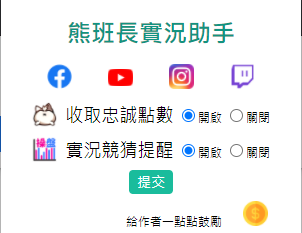
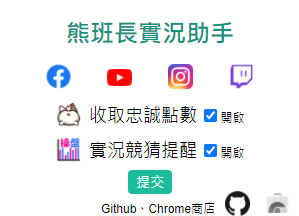
Fix Radio to CheckBox
修改Radio > CheckBox
新增 Notification.jpg
限定 never_loses

diff --git a/熊班長實況助手/popup/popup.html b/熊班長實況助手/popup/popup.html
@@ -23,23 +23,27 @@
             <div style="text-align: center; margin-top: 10px;">
                 <img src="../icons/Piyan.png" style="height: 25px; width: 25px; vertical-align: bottom;">
                 <span style="font-size: 18px; padding-left: 5px;">收取忠誠點數</span>
-                <input type="radio" name="Channel_Points" value="Click" checked="true">開啟
-                <input type="radio" name="Channel_Points" value="">關閉<br>
+                <input id="autoClick" type="checkbox" name="Channel_Points" value="Click" checked>開啟
             </div>
             <div style="text-align: center; margin-top: 10px;">
                 <img src="../icons/gambling.png" style="height: 25px; width: 25px;  vertical-align: bottom;">
                 <span style="font-size: 18px; padding-left: 5px;">實況競猜提醒</span>
-                <input type="radio" name="Quiz" value="Notification" checked="true">開啟
-                <input type="radio" name="Quiz" value="">關閉
+                <input id="cannotifi" type="checkbox" name="Quiz" value="Notification" checked>開啟
             </div>
         </div>
         <div class="row" style="margin-top: 10px; text-align: center;">
             <a id="submitButton" class="btn btn-primary btn-large btn-block" style="text-align: center;  cursor: pointer;"><span class="fui-msg"></span>提交</a>
         </div>
-        <div class="row" style="text-align:right; padding-top: 10px;">
+        <div class="row" style="text-align: center; ">
+            <span style="position: absolute; right: 85px; bottom: 0px;">Github、Chrome商店</span>
+            <a id="GitHubrbutton" class="btn btn-default" style="margin: 10px; cursor: pointer;"><img src="../icons/GitHub.png" style="width: 25px; position:absolute; right:50px;"></a>
+            <a id="Chrome_Storebutton" class="btn btn-default" style="margin: 10px; cursor: not-allowed;;"><img src="../icons/chrome_store.png" style="width: 25px; -webkit-filter: grayscale(1); position:absolute; right:10px;"></a>
+
+        </div>
+        <!-- <div class="row" style="text-align:right; padding-top: 10px;">
             <span>給作者一點點鼓勵</span>
             <a id="Sponsorbutton" class="btn btn-default" style="margin: 10px; cursor: pointer;"><img src="../icons/Sponsor.png" style="width: 25px;"></a>
-        </div>
+        </div> -->
     </div>
 </body>
 <script src="main.js"></script>

diff --git a/熊班長實況助手/popup/main.js b/熊班長實況助手/popup/main.js
@@ -1,12 +1,12 @@
 document.addEventListener('DOMContentLoaded', function(dcle) {
 
     //#region icon, url
-    var buttonName = ["FBbutton", "Youtubebutton", "Instagrambutton", "Twitchbutton", "Sponsorbutton"];
+    var buttonName = ["FBbutton", "Youtubebutton", "Instagrambutton", "Twitchbutton", "GitHubrbutton"];
     var buttonUrl = ["https://www.facebook.com/NeVeRLosEs",
         "https://www.youtube.com/channel/UCRdJzOsu4MwKmY04vfAIDHw",
         "https://www.instagram.com/nln1nl/?hl=zh-tw",
         "https://www.twitch.tv/never_loses",
-
+        "https://github.com/JinWei0811/TwitchNLHelper",
     ];
     for (var i = 0; i < buttonName.length; i++) {
         var button = document.getElementById(buttonName[i]);
@@ -20,18 +20,20 @@ document.addEventListener('DOMContentLoaded', function(dcle) {
     //#region check radio
     var dButtonEvent = document.getElementById("submitButton");
     dButtonEvent.addEventListener('click', function(e) {
-        var Total_Obj = document.getElementsByTagName("INPUT");
-        if (Total_Obj[0].checked)
-            autoClick = true;
-        else
-            autoClick = false;
+        var channelP = document.getElementsByName("Channel_Points");
+        var Notification = document.getElementsByName("Quiz");
 
-        if (Total_Obj[2].checked)
-            notification = true;
-        else
-            notification = false;
-        chrome.runtime.sendMessage({ sclick: autoClick, snotification: notification }, function(response) {});
+        channelP[0].checked ? autoClick = true : autoClick = false;
+        Notification[0].checked ? notification = true : notification = false;
+
+        chrome.runtime.sendMessage({ sclick: true, snotification: true }, function(response) {});
     });
+    //#endregion
+
+    //#region 
+    // var T_Obj = document.getElementsByTagName("INPUT");
+    // T_Obj[0].checked ? document.getElementById(autoClick).checked = true : document.getElementById(dontautoClick).checked = true;
+    // Total_Obj[2].checked ? document.getElementById(cannotifi).checked = true : document.getElementById(cantnotifi).checked = true;
     //#endregion
 });
 
